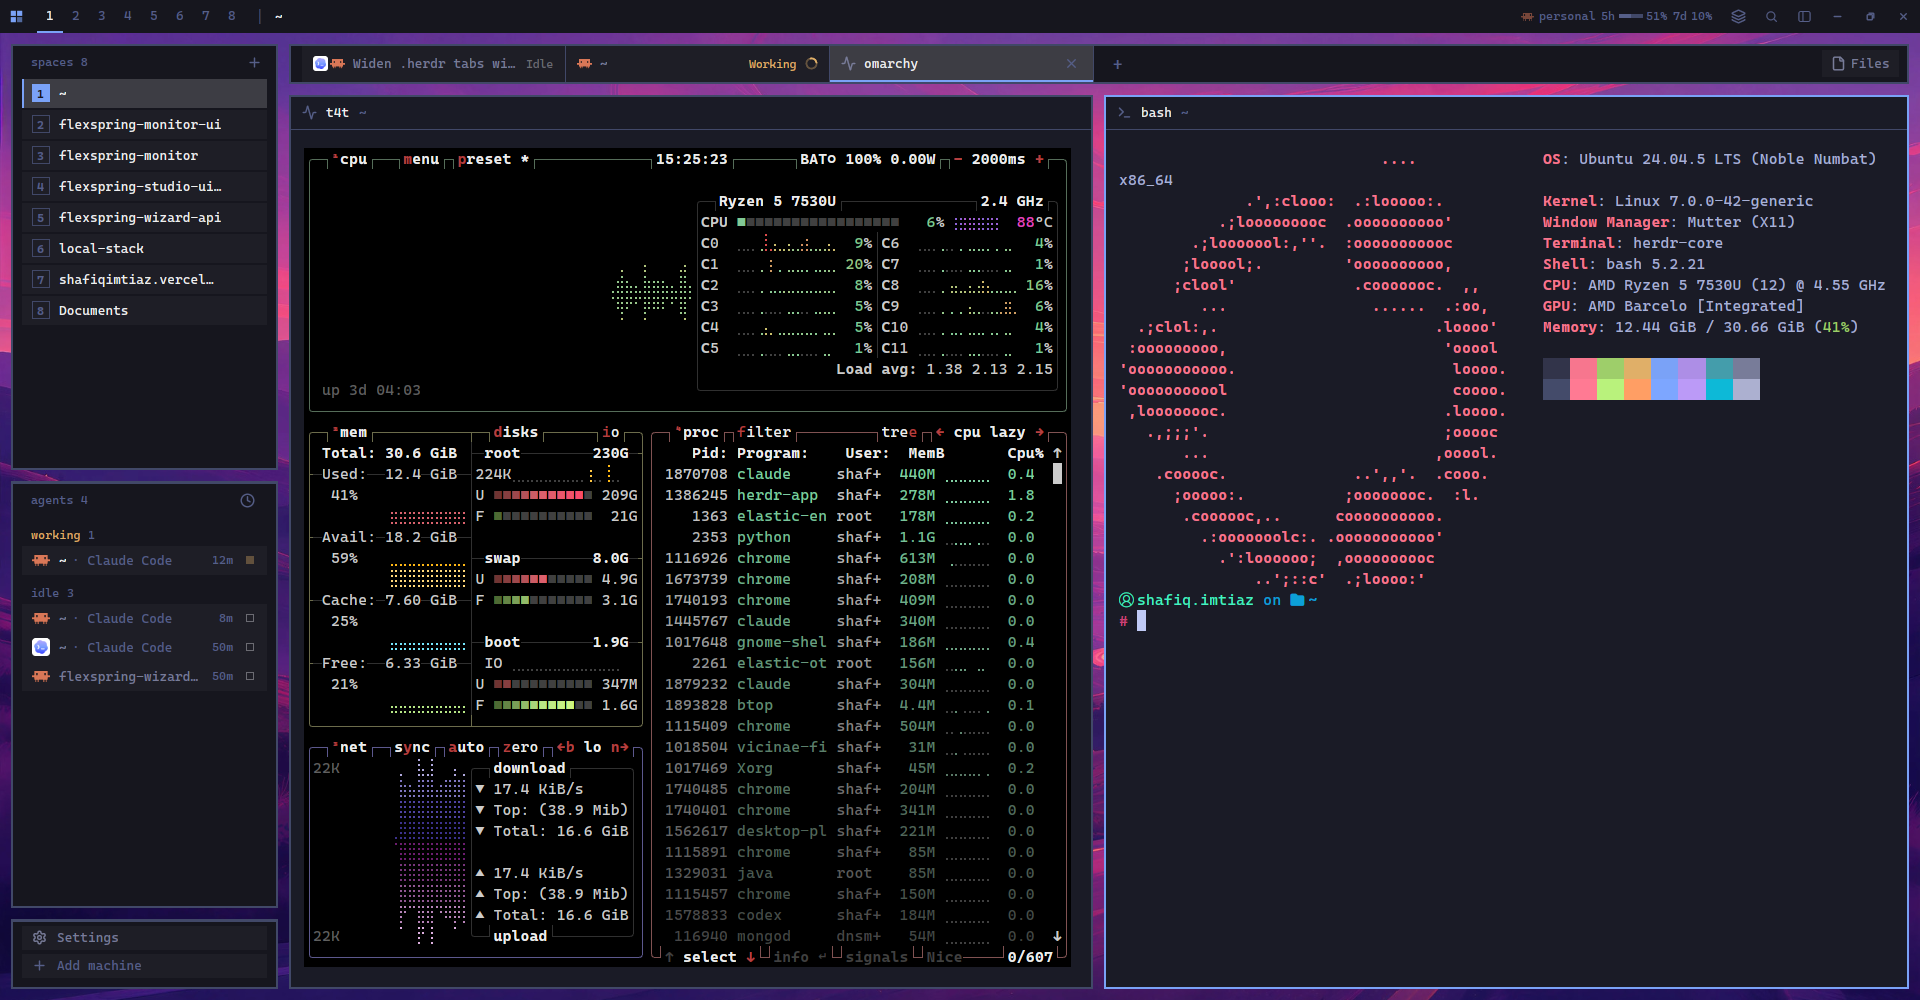
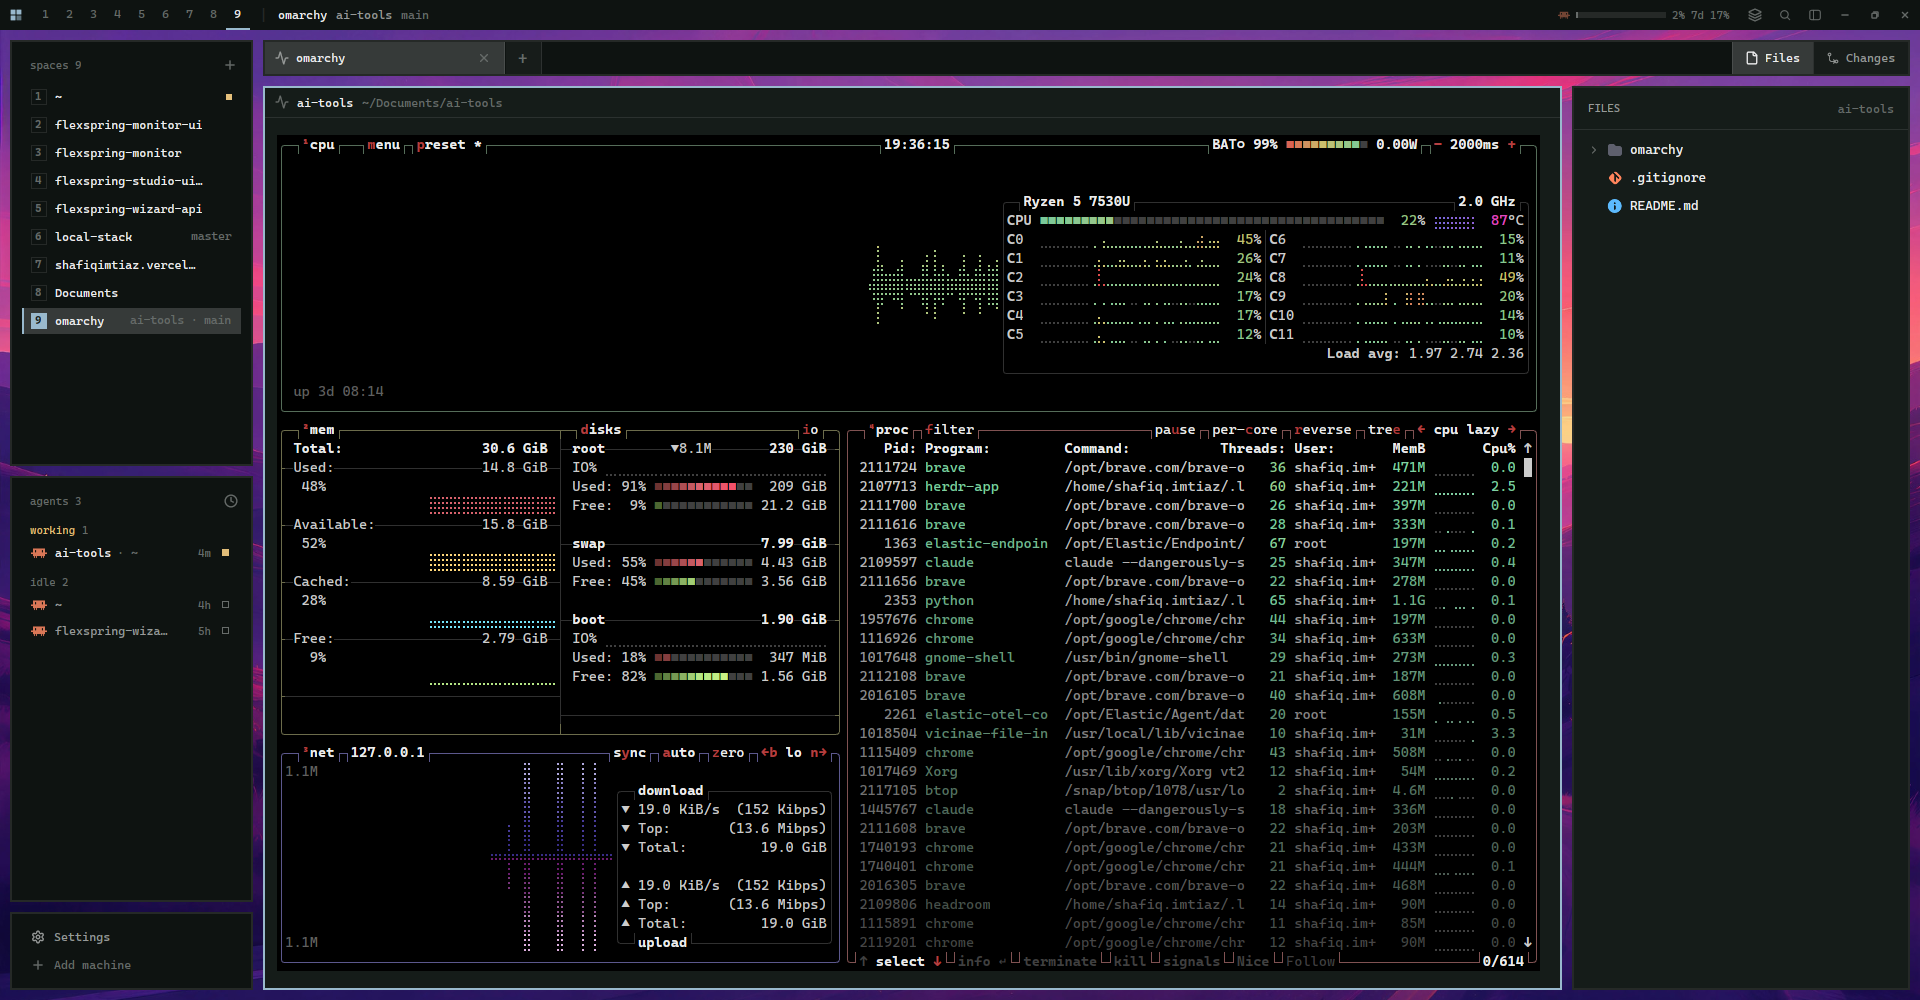
docs(omarchy): refresh preview screenshot and gallery description

diff --git a/RECIPE.md b/RECIPE.md
@@ -1,6 +1,6 @@
 # Omarchy
 
-A Herdr window that looks like the Omarchy desktop (basecamp/omarchy on Hyprland). A thin 30px top bar carries the space numbers, a live AI-usage meter and the window buttons. Below it, square tiles with 2px borders float over the Tokyo Night wallpaper with 10px gaps: separate tiles for spaces, agents and the settings footer, a tab strip, the panes, and a side panel with colored file icons and Git changes. The command palette, Settings and a Mods manager open as square Omarchy-styled dialogs. All 23 Omarchy color themes come with it.
+The Omarchy desktop look for Herdr: square tiles with 2px borders over the Tokyo Night wallpaper, under a 30px top bar with space numbers, a live AI-usage meter and the window buttons. The resizable sidebar folds into a 44px rail. A side panel has colored file icons and Git changes and switches branches. The palette, Settings and Mods manager open as square dialogs. All 23 Omarchy themes come with it.
 
 ![Omarchy](preview.png)
 
